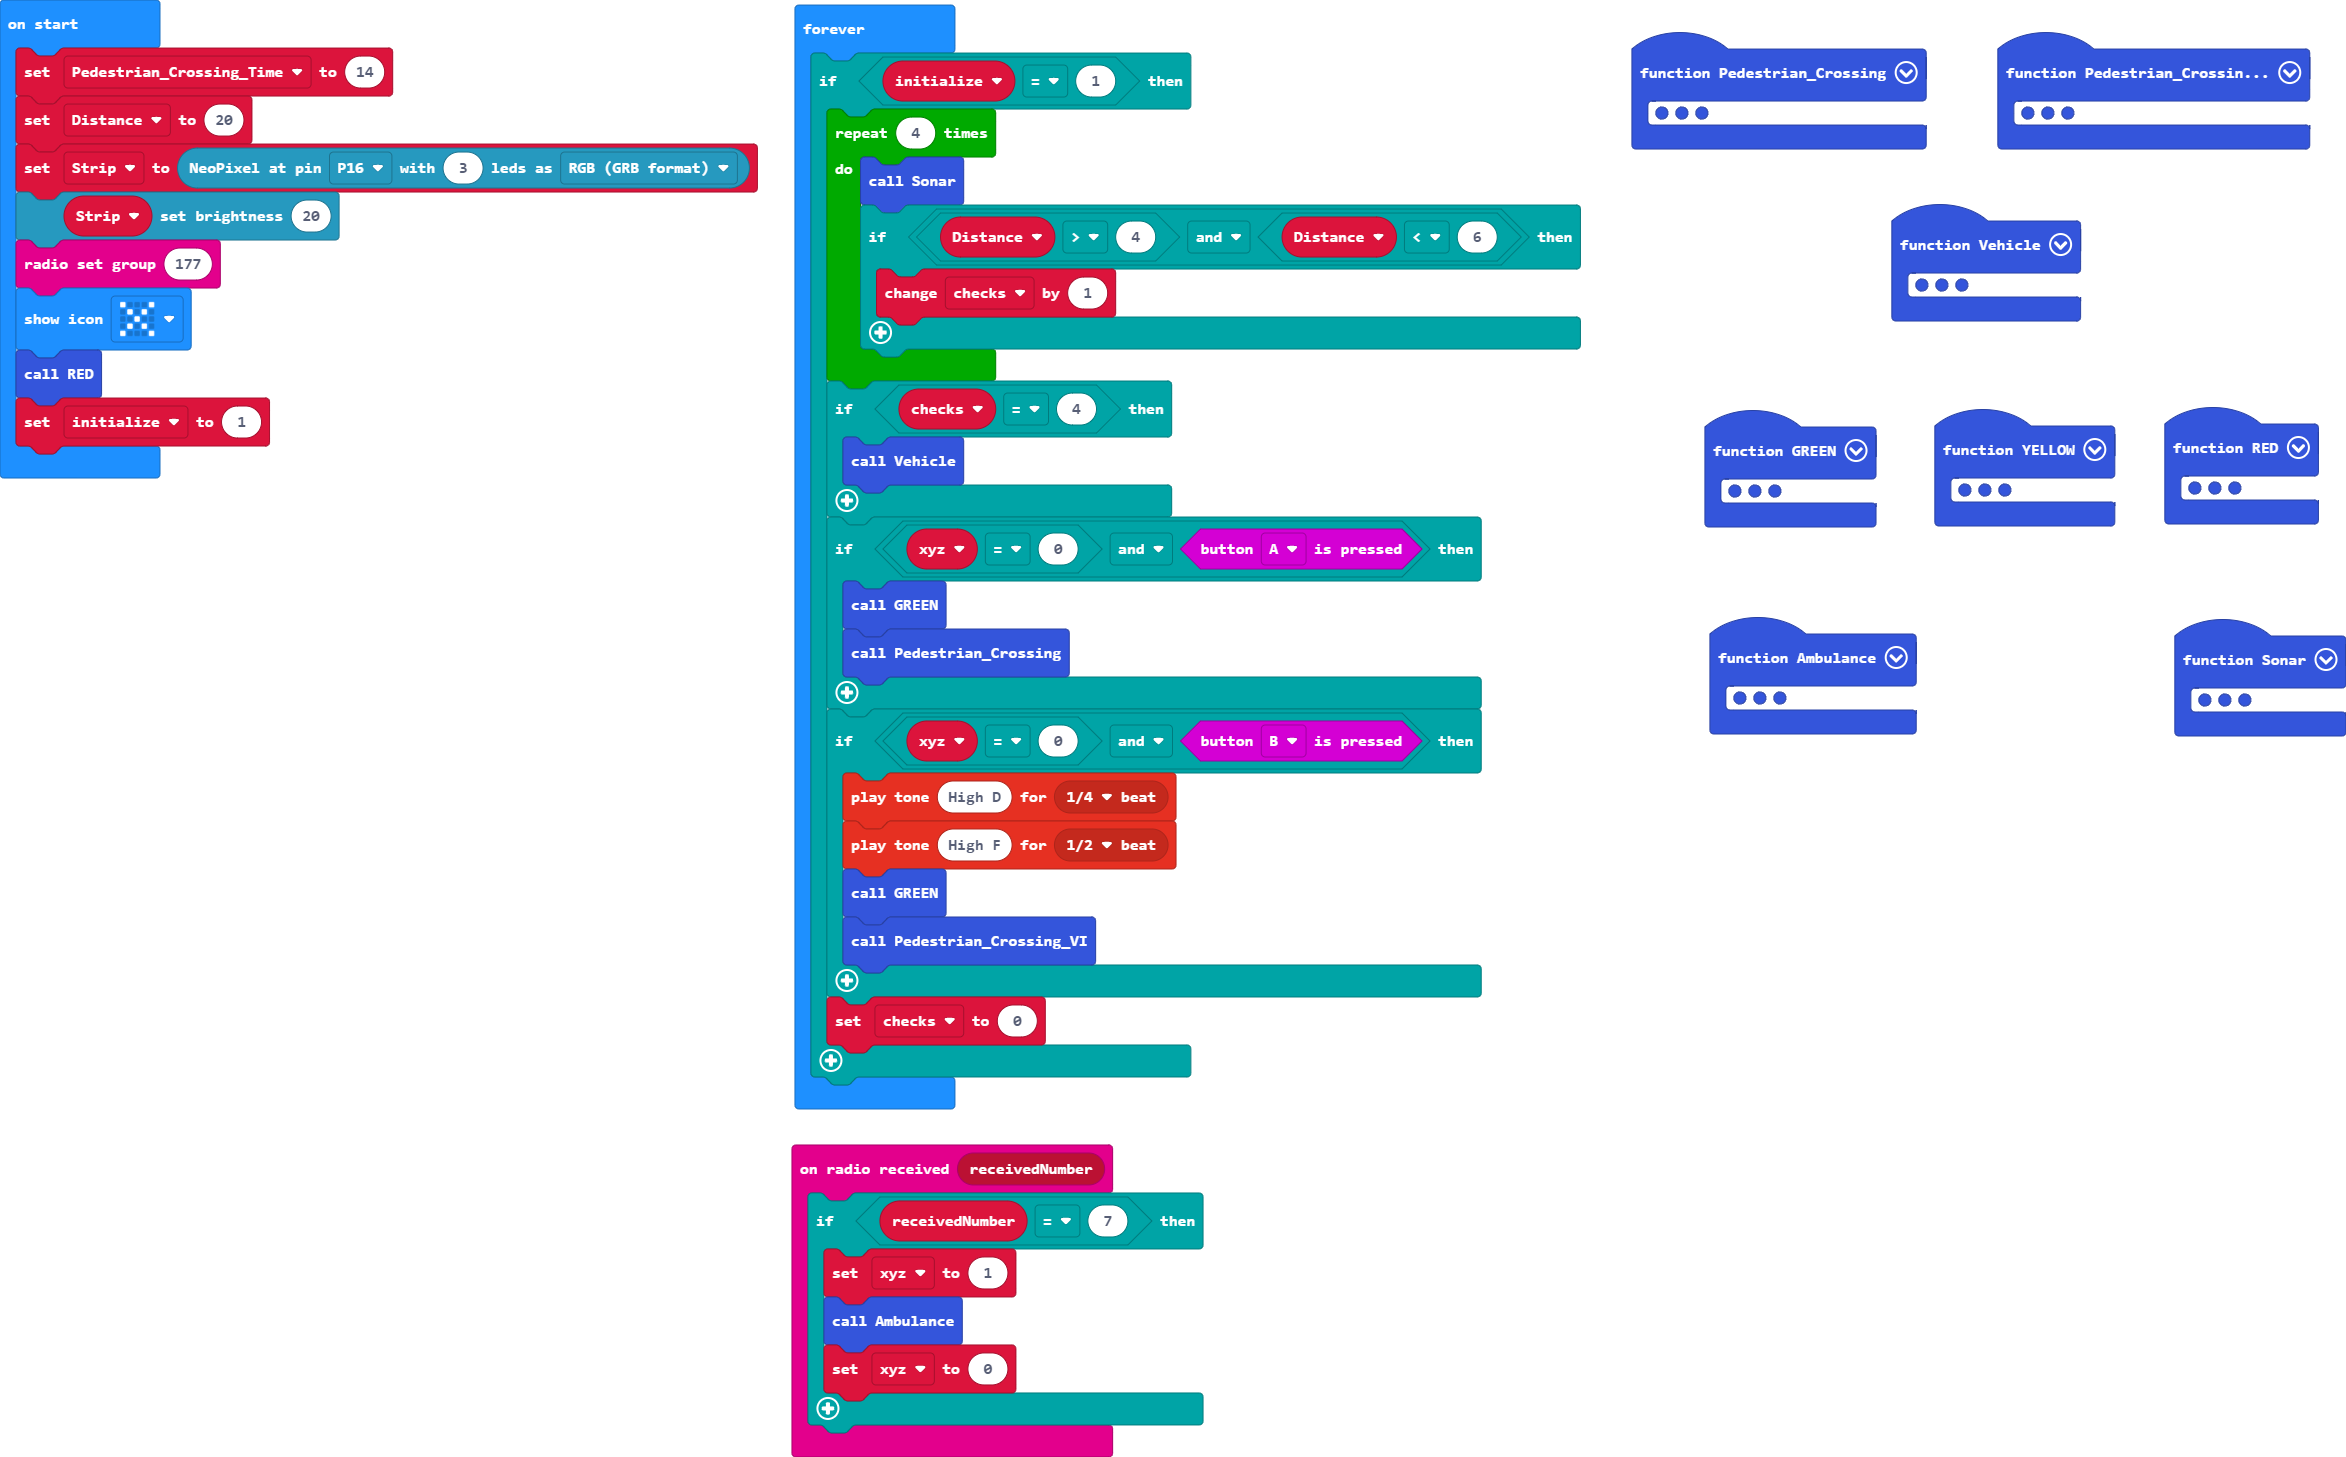
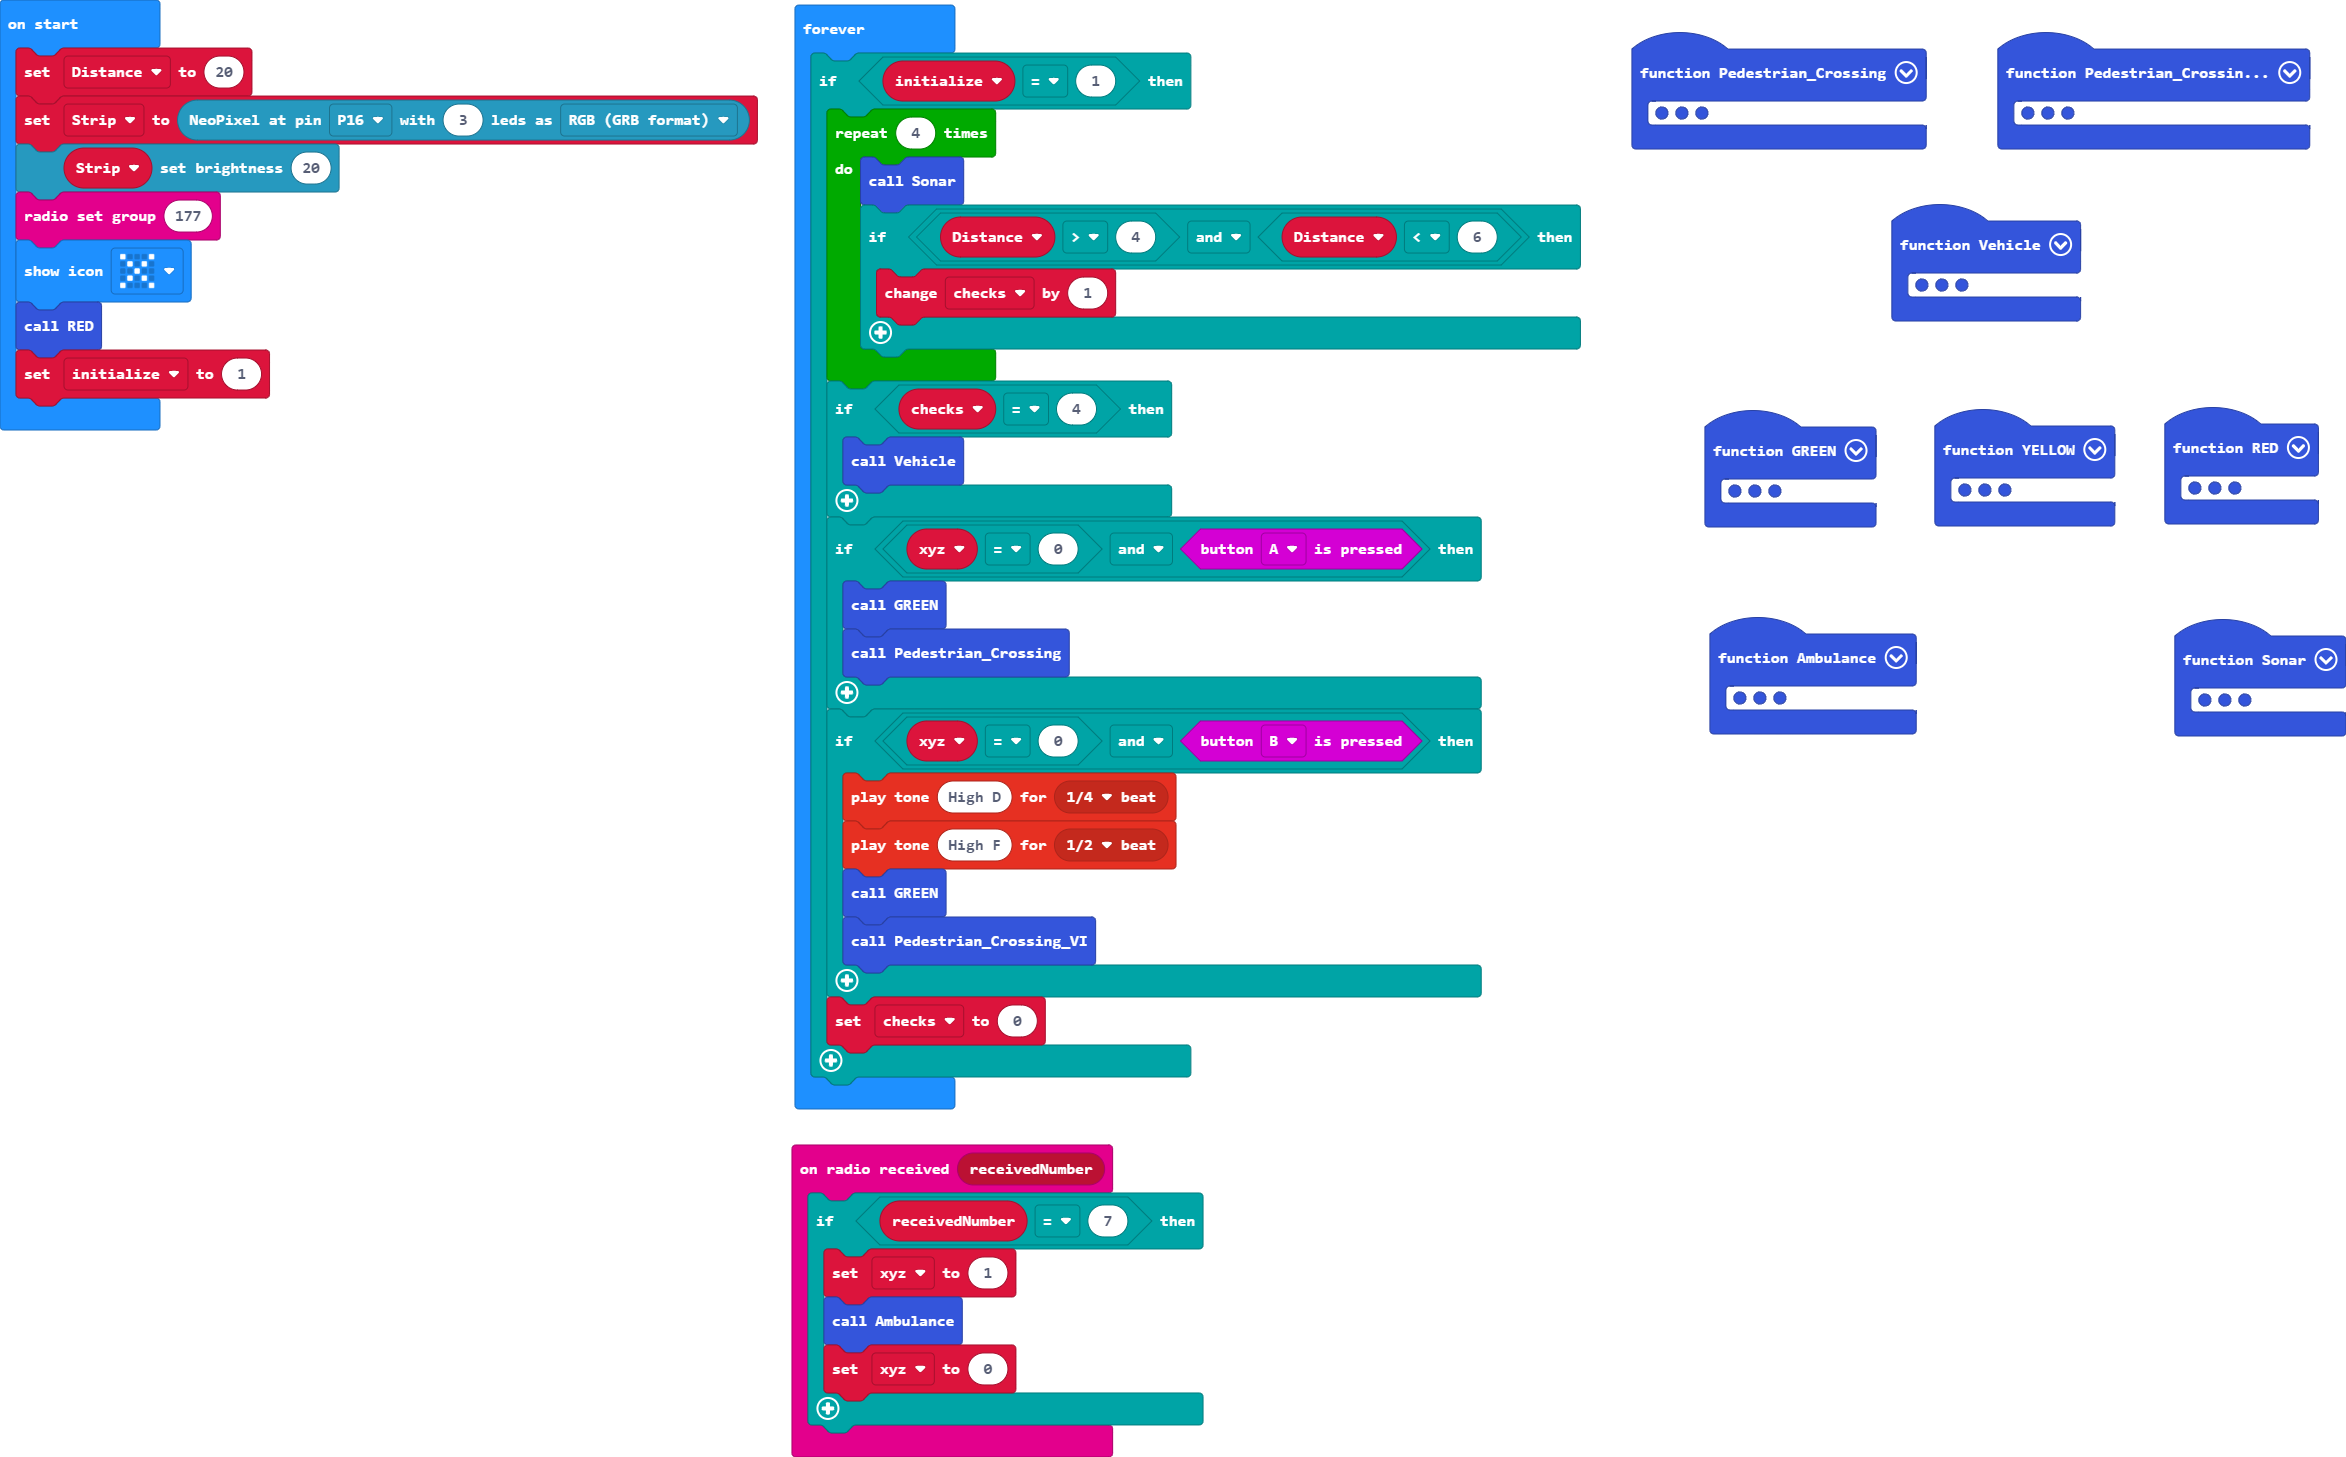
Update main.blocks, main.ts

Changed region(s): [[0.0, 0.0309, 0.3423, 0.3397]]

diff --git a/main.ts b/main.ts
@@ -8,11 +8,10 @@ function Pedestrian_Crossing () {
             # . . . #
             `)
         basic.pause(1000)
-        for (let index = 0; index < 14; index++) {
+        for (let index = 0; index <= 14; index++) {
             if (xyz == 0) {
-                basic.showNumber(Pedestrian_Crossing_Time)
+                basic.showNumber(14 - index)
                 basic.pause(500)
-                Pedestrian_Crossing_Time += -1
             }
         }
         Pedestrian_Crossing_Time = 14
@@ -102,8 +101,7 @@ function Pedestrian_Crossing_VI () {
             if (xyz == 0) {
                 music.playTone(80 * index4 + 200, music.beat(BeatFraction.Half))
                 music.playTone(80 * index4 + 150, music.beat(BeatFraction.Half))
-                basic.showNumber(Pedestrian_Crossing_Time)
-                Pedestrian_Crossing_Time += -1
+                basic.showNumber(14 - index4)
             }
         }
         basic.showLeds(`
@@ -132,11 +130,10 @@ function YELLOW () {
 }
 let checks = 0
 let range: neopixel.Strip = null
+let Pedestrian_Crossing_Time = 0
 let xyz = 0
 let Strip: neopixel.Strip = null
 let Distance = 0
-let Pedestrian_Crossing_Time = 0
-Pedestrian_Crossing_Time = 14
 Distance = 20
 Strip = neopixel.create(DigitalPin.P16, 3, NeoPixelMode.RGB)
 Strip.setBrightness(20)
